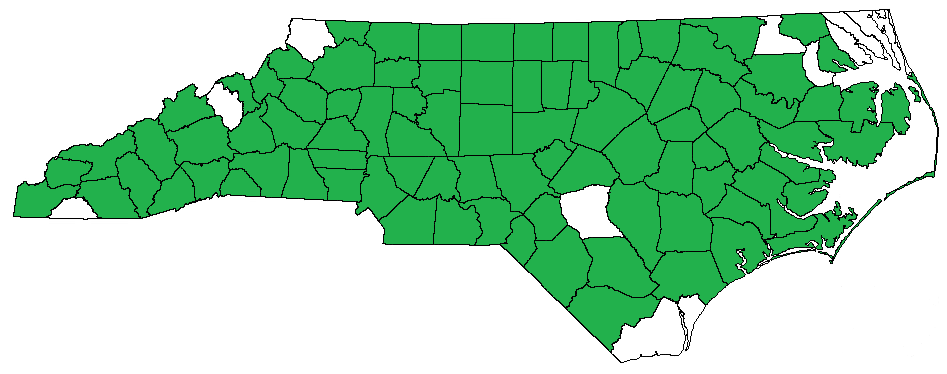
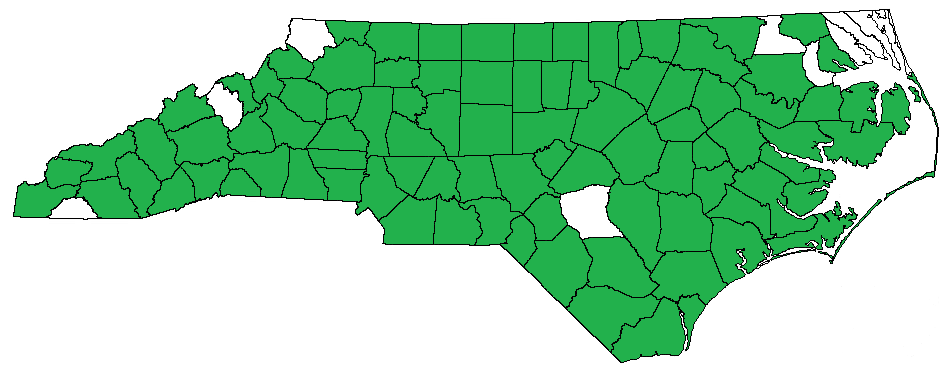
bbq and proposal :) 1/21/24

Changed region(s): [[0.6431, 0.7941, 0.7656, 0.9706]]

diff --git a/bbq/index.html b/bbq/index.html
@@ -58,10 +58,10 @@
 <br>
 <center>
 	<h2>Current County Counter</h2>
-	<h3><span style="color:red">89</span> / 100</h3>
-	<h3>116 different in-state BBQ joints</h3>
+	<h3><span style="color:red">91</span> / 100</h3>
+	<h3>119 different in-state BBQ joints</h3>
 	<h3>9 annual BBQ events</h3>
-	<p>(last updated 12/21/2023)</p>
+	<p>(last updated 1/21/2024)</p>
 </center>
 <br>
 
@@ -114,6 +114,11 @@
 	<!-- https://www.citizen-times.com/story/news/local/2023/10/19/downtown-asheville-restaurant-to-close-after-8-year-run/71243571007/ -->
 	<li>Phil's Bar-B-Q - Black Mountain - 4/30/2023 - <a href="bbq-pics.html#phils">pictures</a></li>
 	<li>Smokey and the Pig - Fairview - 12/22/2020</li>
+</ul>
+<br>
+<p><b>Brunswick County</b></p>
+<ul>
+	<li>Bar-B-Q House - Oak Island - 1/20/2024 - <a href="bbq-pics.html#bbqhouse">pictures</a> - <i><span class="ncbsbbq">True 'Cue NC</span></i></li>
 </ul>
 <br>
 <p><b>Burke County</b></p>
@@ -378,6 +383,11 @@
 	<li>Doug Sauls' BBQ and Seafood - Nashville - 2/23/2022 - <a href="bbq-pics.html#Doug-Sauls">pictures</a></li>
 </ul>
 <br>
+<p><b>New Hanover County</b></p>
+<ul>
+	<li>Jackson's Big Oak Barbecue - Wilmington - 1/20/2024 - <a href="bbq-pics.html#jacksons">pictures</a></li>
+</ul>
+<br>
 <p><b>Northampton County</b></p>
 <ul>
 	<li>Trackside Tavernand Grill - Conway - 1/28/2023 - <a href="bbq-pics.html#Trackside">pictures</a></li>
@@ -521,6 +531,7 @@
 	<li>Old Time BBQ - Raleigh - 2/29/2020, 10/1/2020, 5/12/2021, 11/29/2021</li>
 	<li>Peak City Pig Fest (food by The Redneck BBQ Lab) - Apex - 7/22/2022 - <i><span class="annualbbq">Annual Event</span></i> - <a href="bbq-pics.html#peak">pictures</a></li>
 	<li>The Pit Authentic Barbecue - Raleigh - 1/23/2020, 10/30/2020, 4/29/2021 - <i><span class="ncbsbbq">True 'Cue NC</span></i></li>
+	<li>Sam Jones BBQ - Raleigh - 1/17/2024 - <a href="bbq-pics.html#sam-jones">pictures</a> - <i><span class="ncbsbbq">True 'Cue NC</span></i></li>
 </ul>
 <br>
 <p><b>Warren County</b></p>
@@ -713,6 +724,8 @@
 <p>Jones County, my 86th county, proved to be one of the toughest places to find a barbecue restaurant in.  The county of just under 10,000 persons had one restaurant that might sell barbecue (but seems to be largely a catering service) and two events which serve 'cue: a biker rally (the Backyard BBQ Run) and a nascent competition run in a field beside the county seat's Piggly Wiggly.  We went out to Smithfield to grab an ancient smoker built by one of my friend's grandparents several decades ago.  Though it saw a good deal of service in the 1980s and 1990s, the cooker had sat unused for at least 5 years before we resurrected the rusting beast. We lugged it two hours southeast to Trenton, where a bunch of bewildered local chefs wondered what two Raleigh boys were doing entering such a small competition.  Things didn't always go to plan: while we were testing it, we thought we had lost a bolt that went on the aerator assembly in the grass (luckily we found it hours before leaving: it had somehow landed precariously on the frame); when we got to Trenton, we realized we had left the grate to cook the meat on (we took it off while testing the cooker in Raleigh); and finally, one of the fuel lines' valves had fallen off on the drive.  Luckily, we only *needed* one tank, and were able to construct a temporary grate out of angle brackets and chicken wire we cut to size.  Once there, the cook went largely according to plan, and, after a long night and much conversation with our friendly competitors, we were wowed to win second place out of seven -- the first time either of us had cooked a whole hog.  The smoker, too, was the beauty of the ball: two people offered to buy it from us mid-competition.</p>
 
 <p>After about two months with no new barbecue, early November proved to be a swine-scented mecca.  The first weekend in November, I was asked to help a friend cook a whole hog at his family's NC State-Miami tailgate for his mom's birthday, which I gladly obliged.  Later that week, I was gifted the leftovers, which I shared with some coworkers.  The following weekend, I took a solo daytrip to the east, stopping at Thig's BBQ House and Chubby's Southern BBQ.  Thig's was a great taste of classic eastern-NC style meat, and their "swine wine" sauce is top-tier.  After stopping at a bar in New Bern to watch NC State beat Wake Forest in Winston-Salem for the first time since I attended NC State, I went to Merritt, where I tried the recently-opened <!--Jan 19 2023-->Chubby's Southern BBQ.  While the food was good, as can be seen in the images, it was definitely Texas-styled pulled pork, with a sauce akin to tangy Sweet Baby Ray's, Texas Toast, baked beans, and a dry slaw, rather than white or red, as a side.  After eating, I passed The County Opry in Grantsboro, where I stopped in for some country music and dancing.</p>
+
+<p>After a brief respite from a whirlwind Christmas, I got back on the trail and knocked off two counties in late January 2024, stopping in Brunswick and New Hanover counties. My girlfriend and I started the day with a tour of the Oak Island Lighthouse, and followed this up with an early lunch at the nearby Bar-B-Q House; this was a great diner with friendly service, deliciously smoky 'cue, and 5 sauces to choose from: their house sauce (sort of a vinegary Memphis-style sauce), smoky house, Eastern, Lexington, and mustard.  I also had to get a side of Brunswick stew from the county which shares its name -- even if it is believed to have come from Georgia, this place had a good, slightly sweet take on it.  After spending a few hours in Wilmington, we had a late lunch/early supper at Jackson's Big Oak Barbecue; their pork offering was good, but the moist yet crispy fried chicken stole the show, as sacrilegious as it is for me to say.  Though I did check off two new counties on this trip, the excursion was primarily an excuse to propose to my girlfriend -- now fiance -- at the top of the Oak Island Lighthouse; she said "yes"!  We're looking forward to many more years of adventures together, barbeque-themed or not.</p>
 
 <center>- - - - - - - - - - -</center>
 

diff --git a/bbq/bbq-pics.html b/bbq/bbq-pics.html
@@ -195,6 +195,29 @@
 
 
 <br>
+<p><b>Brunswick County</b></p>
+<p>Bar-B-Q House - Oak Island</p>
+<p><a id="bbqhouse"></p>
+<center><img id="image306" img-src="https://s3.us-east-1.wasabisys.com/cwclaib-website/NC-State-Page/bbq/BBQ House Oak Island/20240120_110348.jpg" width="800"></img></center>
+<center><button type="button"
+        onclick="show( image306, this )" id="btnID">
+        Show Image
+</button></center>
+<center><img id="image307" img-src="https://s3.us-east-1.wasabisys.com/cwclaib-website/NC-State-Page/bbq/BBQ House Oak Island/20240120_110946.jpg" width="800"></img></center>
+<center><button type="button"
+        onclick="show( image307, this )" id="btnID">
+        Show Image
+</button></center>
+<center><img id="image308" img-src="https://s3.us-east-1.wasabisys.com/cwclaib-website/NC-State-Page/bbq/BBQ House Oak Island/20240120_111226.jpg" width="800"></img></center>
+<center><button type="button"
+        onclick="show( image308, this )" id="btnID">
+        Show Image
+</button></center>
+
+
+
+
+<br>
 <p><b>Buncombe County</b></p>
 <p>Buxton Hall Barbecue - Asheville</p>
 <p><a id="Buxton"></p>
@@ -1391,6 +1414,24 @@
         Show Image
 </button></center>
 
+
+
+
+<br>
+<p><b>New Hanover County</b></p>
+<p>Jackson's Big Oak Ba - Oak Island</p>
+<p><a id="bbqhouse"></p>
+<center><img id="image309" img-src="https://s3.us-east-1.wasabisys.com/cwclaib-website/NC-State-Page/bbq/Jacksons Wilmington/20240120_145752.jpg" width="800"></img></center>
+<center><button type="button"
+        onclick="show( image309, this )" id="btnID">
+        Show Image
+</button></center>
+<center><img id="image310" img-src="https://s3.us-east-1.wasabisys.com/cwclaib-website/NC-State-Page/bbq/Jacksons Wilmington/20240120_150322.jpg" width="800"></img></center>
+<center><button type="button"
+        onclick="show( image310, this )" id="btnID">
+        Show Image
+</button></center>
+
 <br>
 <p><b>Northampton County</b></p>
 <p>Trackside Tavern and Grill - Conway</p>
@@ -1877,6 +1918,18 @@
 <center><img id="image157" img-src="https://s3.us-east-1.wasabisys.com/cwclaib-website/NC-State-Page/bbq/Oak and Smoke, Knightdale/imgly_5618643796725650171.jpg" width="800"></img></center>
 <center><button type="button"
         onclick="show( image157, this )" id="btnID">
+        Show Image
+</button></center>
+<p><a id="sam-jones"></p>
+<p>Sam Jones BBQ - Raleigh</p>
+<center><img id="image311" img-src="https://s3.us-east-1.wasabisys.com/cwclaib-website/NC-State-Page/bbq/Sam Jones Raleigh/20240117_115818.jpg" width="800"></img></center>
+<center><button type="button"
+        onclick="show( image311, this )" id="btnID">
+        Show Image
+</button></center>
+<center><img id="image312" img-src="https://s3.us-east-1.wasabisys.com/cwclaib-website/NC-State-Page/bbq/Sam Jones Raleigh/20240117_120702.jpg" width="800"></img></center>
+<center><button type="button"
+        onclick="show( image312, this )" id="btnID">
         Show Image
 </button></center>
 
